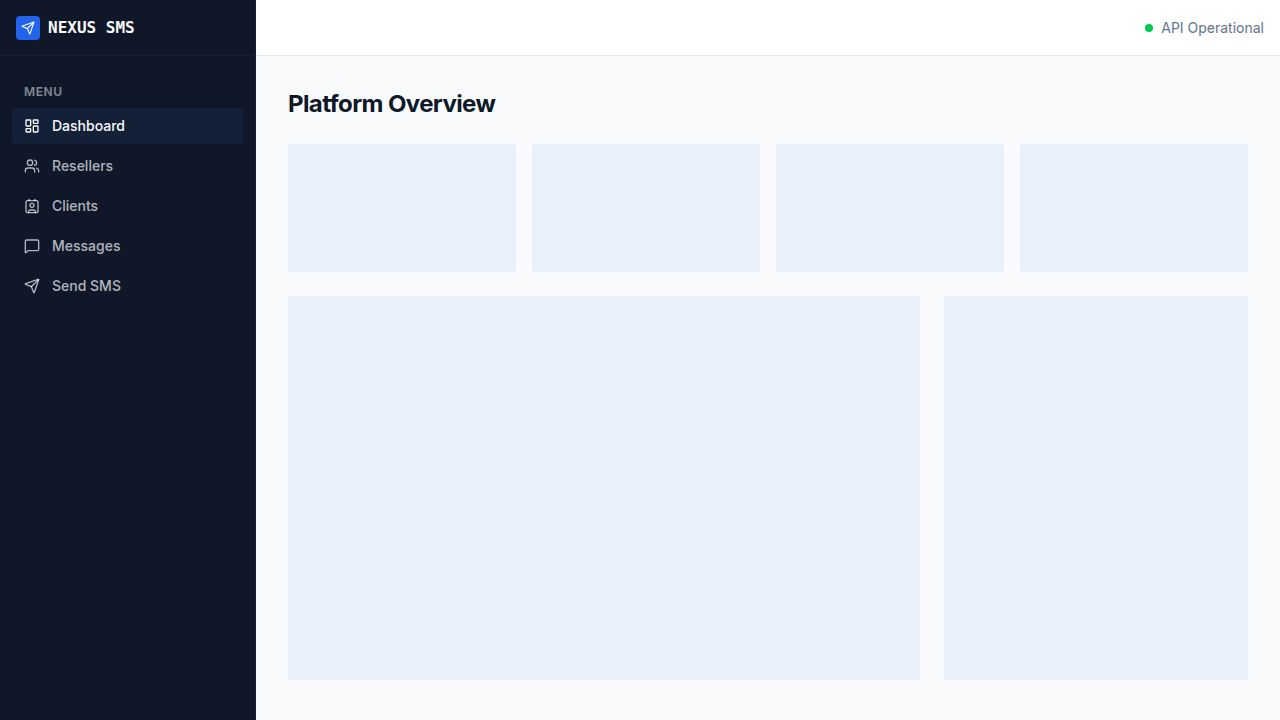
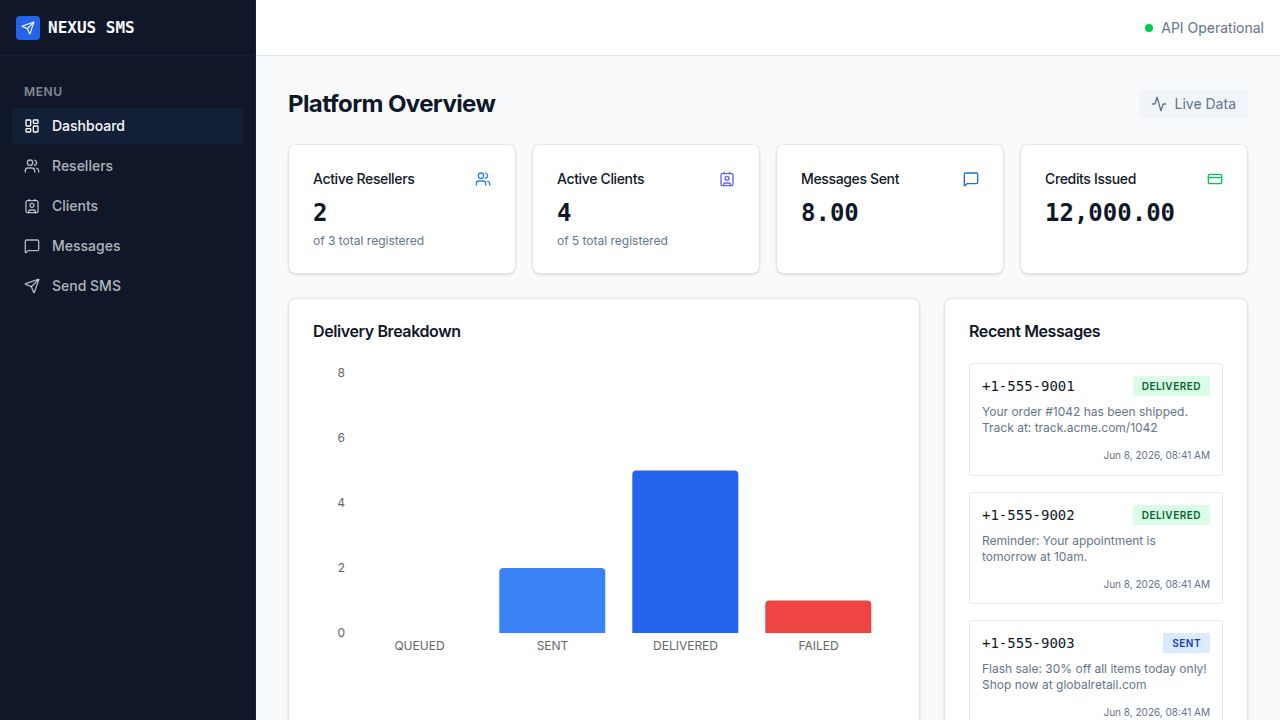
Integrate real SMS sending and update billing logic
Adds GatewayAPI integration for sending SMS, updates database schema with message IDs and error text, and refactors credit checking and deduction logic.

Replit-Commit-Author: Agent
Replit-Commit-Session-Id: e24c443a-f064-4d65-a6ec-f4ffb6102abc
Replit-Commit-Checkpoint-Type: full_checkpoint
Replit-Commit-Event-Id: f96f936a-d290-4bcc-aca3-063f9f3cf5db
Replit-Commit-Screenshot-Url: https://storage.googleapis.com/screenshot-production-us-central1/f0c38956-e620-4e57-9d80-327a9383c387/e24c443a-f064-4d65-a6ec-f4ffb6102abc/NSs6UGb
Replit-Helium-Checkpoint-Created: true

diff --git a/artifacts/api-server/src/routes/messages.ts b/artifacts/api-server/src/routes/messages.ts
@@ -6,8 +6,66 @@ import {
   SendMessageBody,
   GetMessageParams,
 } from "@workspace/api-zod";
+import { logger } from "../lib/logger";
 
 const router: IRouter = Router();
+
+function normalizeRecipient(raw: string): string {
+  const digits = raw.replace(/[\s\-\+]/g, "").replace(/\D/g, "");
+  if (digits.length === 10 && digits.startsWith("69")) {
+    return `30${digits}`;
+  }
+  return digits;
+}
+
+async function sendViaGatewayApi(
+  recipient: string,
+  message: string,
+): Promise<{ success: true; msgId: string } | { success: false; errorText: string }> {
+  const token = process.env.GATEWAYAPI_TOKEN;
+  if (!token) {
+    return { success: false, errorText: "GATEWAYAPI_TOKEN is not configured" };
+  }
+
+  const normalizedRecipient = normalizeRecipient(recipient);
+
+  let response: Response;
+  let responseText: string;
+  try {
+    response = await fetch("https://messaging.gatewayapi.com/mobile/single", {
+      method: "POST",
+      headers: {
+        Authorization: `Token ${token}`,
+        "Content-Type": "application/json",
+      },
+      body: JSON.stringify({
+        sender: "SmartVoIP",
+        message,
+        recipient: parseInt(normalizedRecipient, 10),
+      }),
+    });
+    responseText = await response.text();
+  } catch (err) {
+    const errorText = err instanceof Error ? err.message : String(err);
+    logger.error({ errorText }, "GatewayAPI network error");
+    return { success: false, errorText: `Network error: ${errorText}` };
+  }
+
+  if (response.status === 202) {
+    let msgId = "";
+    try {
+      const json = JSON.parse(responseText) as { msg_id?: string | number };
+      msgId = String(json.msg_id ?? "");
+    } catch {
+      msgId = "";
+    }
+    return { success: true, msgId };
+  }
+
+  const errorText = `GatewayAPI error ${response.status}: ${responseText}`;
+  logger.warn({ status: response.status, body: responseText }, "GatewayAPI non-202 response");
+  return { success: false, errorText };
+}
 
 router.get("/messages", async (req, res): Promise<void> => {
   const query = ListMessagesQueryParams.safeParse(req.query);
@@ -48,6 +106,10 @@ router.post("/messages/send", async (req, res): Promise<void> => {
 
   const creditsCost = 1;
 
+  let entityType: "reseller" | "client" | null = null;
+  let entityId: number | null = null;
+  let currentCredits = 0;
+
   if (parsed.data.resellerId) {
     const [reseller] = await db
       .select()
@@ -58,24 +120,14 @@ router.post("/messages/send", async (req, res): Promise<void> => {
       res.status(404).json({ error: "Reseller not found" });
       return;
     }
-
     if (reseller.credits < creditsCost) {
-      res.status(400).json({ error: "Insufficient credits" });
+      res.status(400).json({ error: `Insufficient credits — reseller has ${reseller.credits}, needs ${creditsCost}` });
       return;
     }
 
-    await db
-      .update(resellersTable)
-      .set({ credits: reseller.credits - creditsCost })
-      .where(eq(resellersTable.id, parsed.data.resellerId));
-
-    await db.insert(creditTransactionsTable).values({
-      entityType: "reseller",
-      entityId: parsed.data.resellerId,
-      amount: creditsCost,
-      type: "debit",
-      description: `SMS sent to ${parsed.data.toNumber}`,
-    });
+    entityType = "reseller";
+    entityId = reseller.id;
+    currentCredits = reseller.credits;
   } else if (parsed.data.clientId) {
     const [client] = await db
       .select()
@@ -86,44 +138,84 @@ router.post("/messages/send", async (req, res): Promise<void> => {
       res.status(404).json({ error: "Client not found" });
       return;
     }
-
     if (client.credits < creditsCost) {
-      res.status(400).json({ error: "Insufficient credits" });
+      res.status(400).json({ error: `Insufficient credits — client has ${client.credits}, needs ${creditsCost}` });
       return;
     }
 
-    await db
-      .update(clientsTable)
-      .set({ credits: client.credits - creditsCost })
-      .where(eq(clientsTable.id, parsed.data.clientId));
-
-    await db.insert(creditTransactionsTable).values({
-      entityType: "client",
-      entityId: parsed.data.clientId,
-      amount: creditsCost,
-      type: "debit",
-      description: `SMS sent to ${parsed.data.toNumber}`,
-    });
+    entityType = "client";
+    entityId = client.id;
+    currentCredits = client.credits;
   }
 
-  const statuses = ["sent", "delivered", "failed"];
-  const randomStatus = statuses[Math.floor(Math.random() * statuses.length)];
+  req.log.info(
+    { to: parsed.data.toNumber, entityType, entityId },
+    "Sending SMS via GatewayAPI",
+  );
 
-  const [message] = await db
-    .insert(messagesTable)
-    .values({
-      resellerId: parsed.data.resellerId ?? null,
-      clientId: parsed.data.clientId ?? null,
-      toNumber: parsed.data.toNumber,
-      fromNumber: parsed.data.fromNumber,
-      body: parsed.data.body,
-      status: randomStatus,
-      creditsCost,
-      sentAt: new Date(),
-    })
-    .returning();
+  const result = await sendViaGatewayApi(parsed.data.toNumber, parsed.data.body);
 
-  res.status(201).json(message);
+  if (result.success) {
+    if (entityType === "reseller" && entityId !== null) {
+      await db
+        .update(resellersTable)
+        .set({ credits: currentCredits - creditsCost })
+        .where(eq(resellersTable.id, entityId));
+    } else if (entityType === "client" && entityId !== null) {
+      await db
+        .update(clientsTable)
+        .set({ credits: currentCredits - creditsCost })
+        .where(eq(clientsTable.id, entityId));
+    }
+
+    if (entityType && entityId !== null) {
+      await db.insert(creditTransactionsTable).values({
+        entityType,
+        entityId,
+        amount: creditsCost,
+        type: "debit",
+        description: `SMS sent to ${parsed.data.toNumber}`,
+      });
+    }
+
+    const [message] = await db
+      .insert(messagesTable)
+      .values({
+        resellerId: parsed.data.resellerId ?? null,
+        clientId: parsed.data.clientId ?? null,
+        toNumber: normalizeRecipient(parsed.data.toNumber),
+        fromNumber: parsed.data.fromNumber,
+        body: parsed.data.body,
+        status: "sent",
+        creditsCost,
+        gatewayMessageId: result.msgId || null,
+        gatewayErrorText: null,
+        sentAt: new Date(),
+      })
+      .returning();
+
+    req.log.info({ gatewayMsgId: result.msgId }, "SMS sent successfully");
+    res.status(201).json(message);
+  } else {
+    const [message] = await db
+      .insert(messagesTable)
+      .values({
+        resellerId: parsed.data.resellerId ?? null,
+        clientId: parsed.data.clientId ?? null,
+        toNumber: normalizeRecipient(parsed.data.toNumber),
+        fromNumber: parsed.data.fromNumber,
+        body: parsed.data.body,
+        status: "failed",
+        creditsCost: 0,
+        gatewayMessageId: null,
+        gatewayErrorText: result.errorText,
+        sentAt: null,
+      })
+      .returning();
+
+    req.log.warn({ errorText: result.errorText }, "SMS send failed");
+    res.status(201).json(message);
+  }
 });
 
 router.get("/messages/:id", async (req, res): Promise<void> => {

diff --git a/lib/db/src/schema/messages.ts b/lib/db/src/schema/messages.ts
@@ -11,6 +11,8 @@ export const messagesTable = pgTable("messages", {
   body: text("body").notNull(),
   status: text("status").notNull().default("queued"),
   creditsCost: integer("credits_cost").notNull().default(1),
+  gatewayMessageId: text("gateway_message_id"),
+  gatewayErrorText: text("gateway_error_text"),
   sentAt: timestamp("sent_at", { withTimezone: true }),
   createdAt: timestamp("created_at", { withTimezone: true }).notNull().defaultNow(),
 });